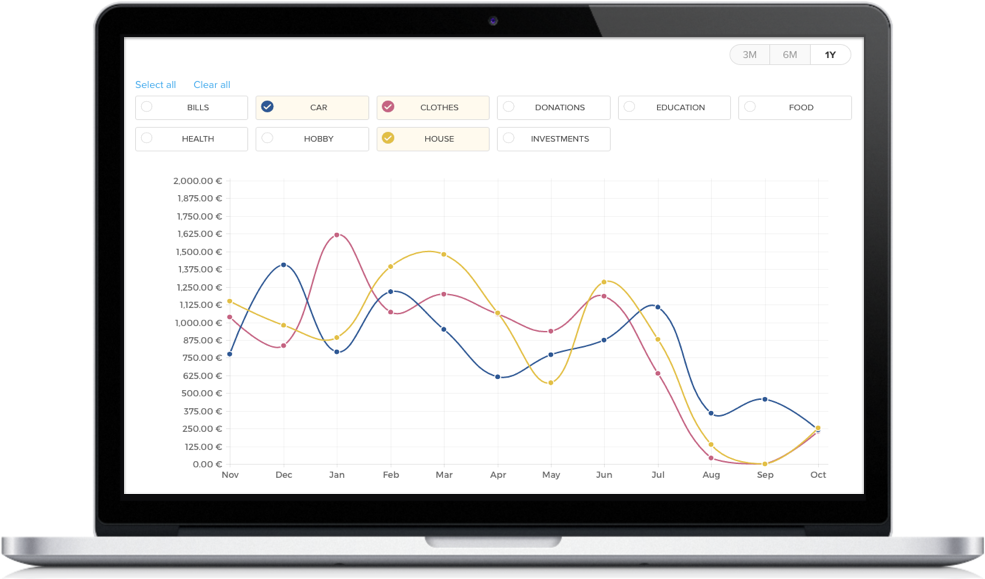
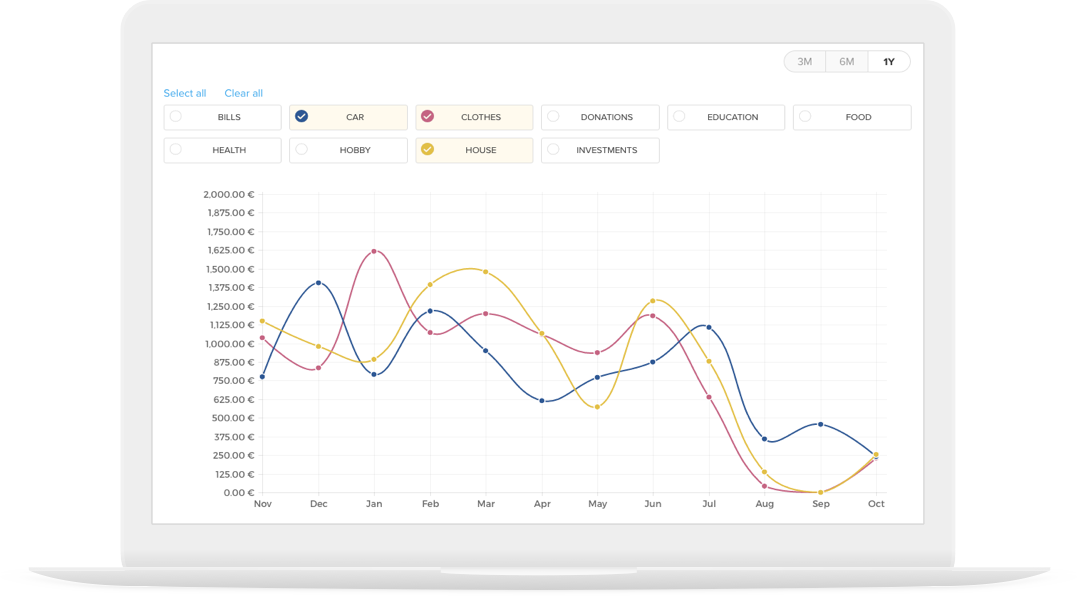
Update the main screen.

diff --git a/src/app/common/partials/header-directive-public.tpl.html b/src/app/common/partials/header-directive-public.tpl.html
@@ -23,8 +23,10 @@
             <!--<li>-->
                 <!--<a href="javascript:void(0)" ui-sref="pricing" ui-sref-opts="{reload:true}">Pricing</a>-->
             <!--</li>-->
+
             <li>
-                <a href="javascript:void(0)" class="simptip-position-bottom simptip-fade simptip-smooth simptip-success" data-tooltip="Free while in beta.">Pricing</a>
+                <a href="javascript:void(0)" class="simptip-position-bottom simptip-fade simptip-smooth simptip-success" data-tooltip="Free while in beta"
+                    style="display: initial;">Pricing</a>
             </li>
             <li>
                 <a href="http://blog.revaluate.io" target="_blank">Blog</a>

diff --git a/src/app/site/partials/home.html b/src/app/site/partials/home.html
@@ -13,7 +13,7 @@
 
         <div class="site__container__section site__container__section--ctabtns">
             <button class="home__section__start__btn" type="button" account-modal-toggle="requestSignUpRegistration">
-                Create your FREE account!
+                Create your free account!
             </button>
         </div>
 

diff --git a/src/app/common/sass/_header_public.scss b/src/app/common/sass/_header_public.scss
@@ -50,13 +50,14 @@
     li {
         display: block;
         float: left;
+        padding: 0 10px;
 
         a {
             color: $gray-medium;
             font-size: $font-size-large;
 
             &:hover {
-                color: $gray-light-1;
+                color: $gray-dark-1;
             }
         }
     }

diff --git a/src/app/site/sass/_site_common.scss b/src/app/site/sass/_site_common.scss
@@ -37,7 +37,7 @@
 }
 
 .site__container--blue {
-    background-color: $brand-primary;
+    background-color: $color-blue;
     color: $white;
 
     .site__container__section--accent a {
